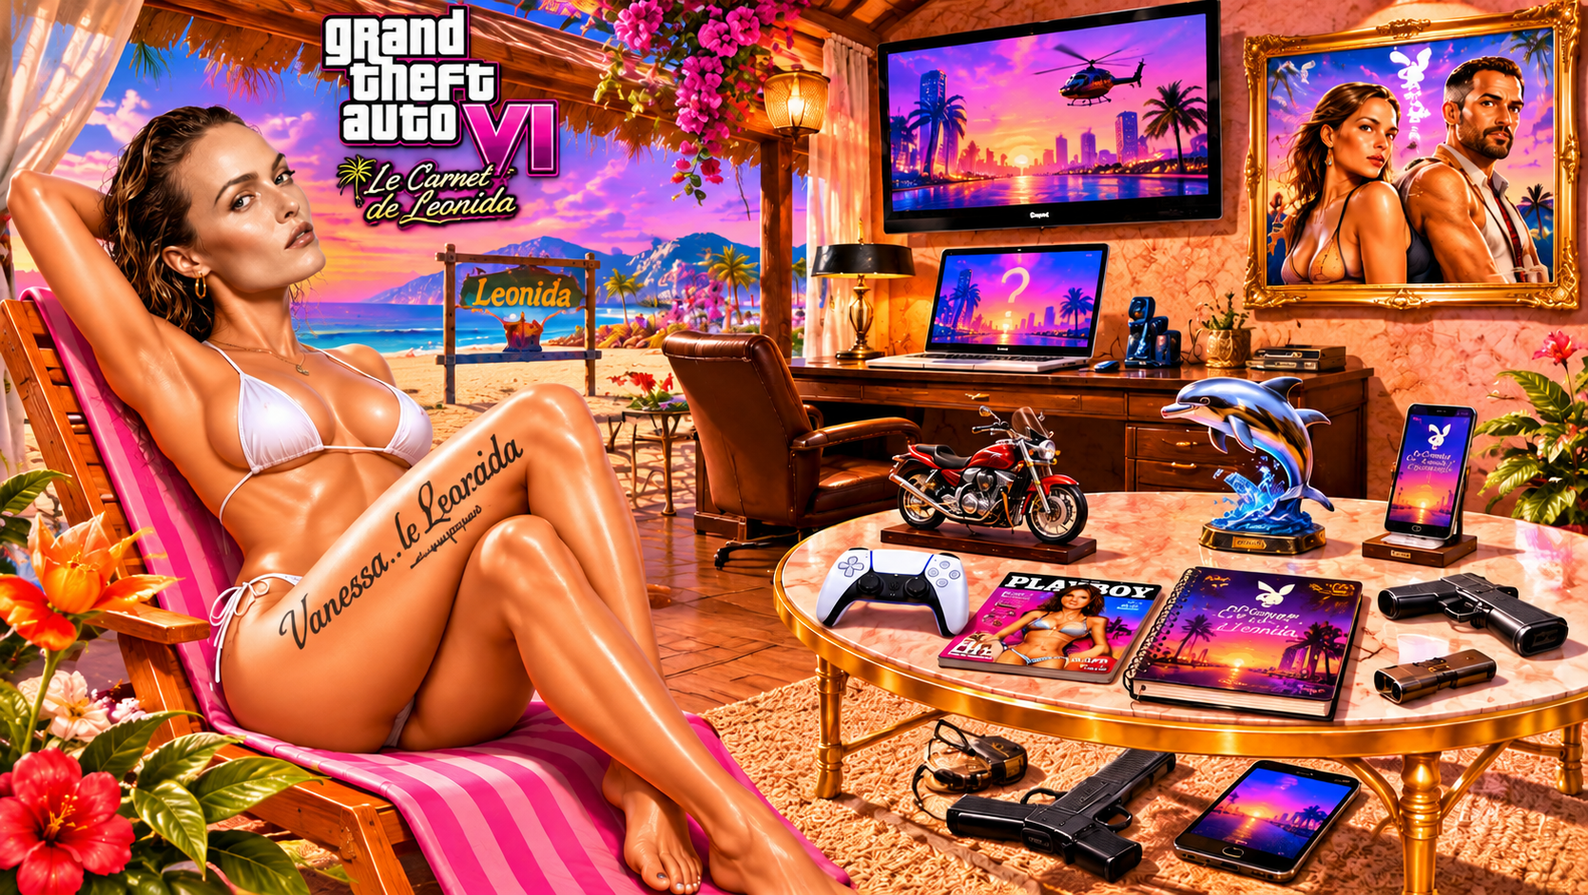
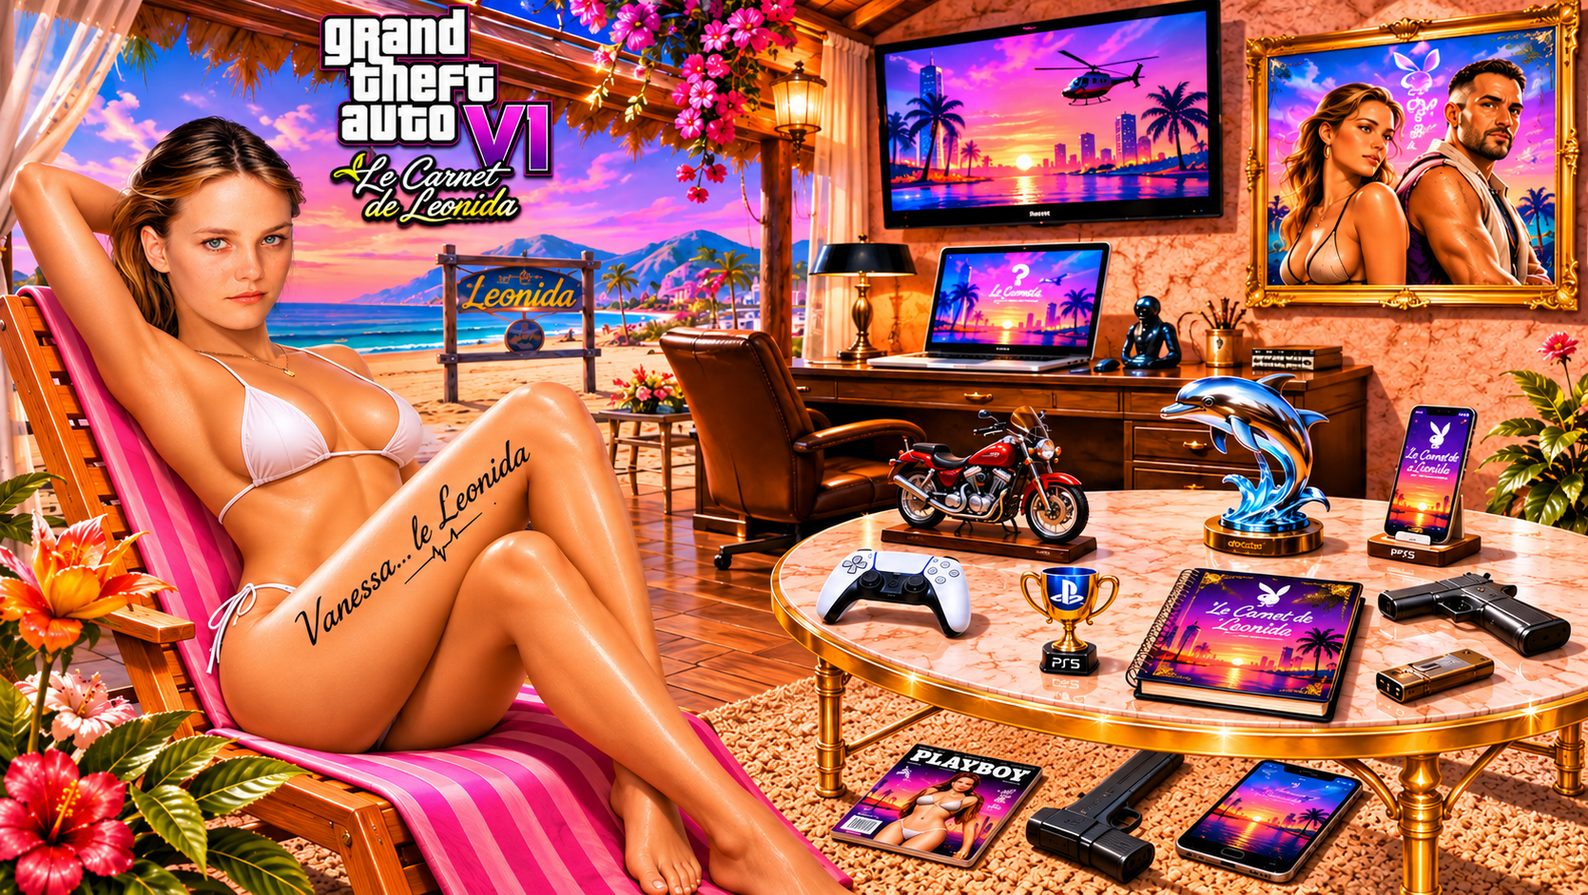
Add files via upload

diff --git a/trophees.html b/trophees.html
@@ -1,0 +1,12 @@
+<!doctype html><html lang="fr"><head><meta charset="utf-8"><meta name="viewport" content="width=device-width,initial-scale=1"><title>Trophées PS5 — Le Carnet de Leonida</title><style>
+:root{color-scheme:dark;--pink:#ff58b8;--cyan:#55e9f5;--bg:#140c28}*{box-sizing:border-box}body{margin:0;font-family:Arial,sans-serif;background:radial-gradient(circle at 80% 0%,#5b1d69,transparent 40%),linear-gradient(145deg,#160b2a,#23113e 60%,#0a1c30);color:#f8f5ff;min-height:100vh}header{padding:24px max(20px,calc((100vw - 1200px)/2));background:linear-gradient(90deg,#81297f,#b82d88,#167f9e);display:flex;align-items:center;justify-content:space-between;gap:16px;flex-wrap:wrap}header h1{margin:0;font-size:clamp(24px,4vw,38px)}a{color:var(--cyan)}.btn,button{border:1px solid #8b568f;border-radius:9px;background:#39244d;color:white;padding:10px 14px;cursor:pointer;font-size:14px}.btn{text-decoration:none}.btn:hover,button:hover{border-color:var(--cyan)}main{max-width:1200px;margin:auto;padding:24px 18px}.lead{color:#d4c8df}.bar{height:12px;border-radius:20px;background:#3c3055;overflow:hidden}.fill{height:100%;width:0;background:linear-gradient(90deg,var(--pink),var(--cyan))}.toolbar{display:flex;gap:10px;flex-wrap:wrap;margin:20px 0}input,select{padding:11px;border-radius:9px;border:1px solid #745a85;background:#22182f;color:white;font-size:15px}input[type=search]{flex:1;min-width:220px}.grid{display:grid;grid-template-columns:repeat(auto-fill,minmax(295px,1fr));gap:16px}.card{background:#211832e8;border:1px solid #654c7a;border-radius:16px;padding:18px;box-shadow:0 8px 22px #08040d66}.top{display:flex;align-items:center;gap:12px}.icon{width:62px;height:62px;object-fit:contain;border-radius:10px;background:#302344}.title{margin:0;font-size:19px}.rank{font-size:13px;color:#d8b4ed}.desc{line-height:1.45;color:#e1d8e9;min-height:60px}.actions{display:flex;gap:8px;flex-wrap:wrap;align-items:center}.check{display:flex;align-items:center;gap:6px;color:#92f2dc}.video{margin-top:14px}.video iframe{width:100%;aspect-ratio:16/9;border:0;border-radius:10px}.muted{color:#b8a6c4;font-size:13px}.edit{display:none;margin-top:12px;gap:8px}.edit.open{display:flex}.edit input{width:100%;min-width:0}.badge{padding:3px 8px;border-radius:10px;background:#442f56;color:#f8d1f2}.footer{margin:25px 0;color:#b7a8c8;font-size:13px}label{cursor:pointer}@media(max-width:500px){header{padding:20px}.grid{grid-template-columns:1fr}}.hero-img{display:block;width:100%;max-width:780px;max-height:620px;object-fit:contain;margin:0 auto 24px;border-radius:14px;box-shadow:0 8px 35px #07051088}.hero-wrap{background:linear-gradient(135deg,#291039,#11283a);padding:20px 12px;border-radius:16px;margin-bottom:22px}</style></head><body><header><h1>Trophées PS5 — Le Carnet de Leonida</h1><a class="btn" href="index.html">← Accueil</a></header><main><div class="hero-wrap"><img class="hero-img" src="images/trophees-ps5.png" alt="Vanessia dans la salle de sport, trophée PS5"></div><p class="lead">Guide illustré des 55 trophées : descriptions, recherche et vidéos explicatives ajoutées progressivement. Pour le suivi des trophées obtenus, utilise ta PS5.</p><div class="toolbar"><input id="search" type="search" placeholder="Rechercher un trophée…"><select id="filter"><option value="">Toutes les catégories</option></select><select id="status"><option value="">Toutes les vidéos</option><option value="video">Avec vidéo</option><option value="pending">Vidéo à venir</option></select></div><div class="grid" id="grid"></div><p class="footer">Guide réalisé à partir du document EveryTrophy fourni. Les vidéos seront ajoutées directement au fichier HTML lors des mises à jour. Aucun suivi de progression ni connexion au Worker.</p></main><script>
+const TROPHIES=[{"id": "un-gout-de-paradis", "name": "Un goût de paradis", "description": "Termine Partie de pêche, l'une des premières missions du chapitre 1. Trophée d'histoire impossible à rater ; 98,1 % l'ont.", "rank": "Bronze", "category": "Histoire", "image": "images/trophees/just-like-paradise.webp"}, {"id": "paradis-perdu", "name": "Paradis perdu", "description": "Termine le chapitre 1. Trophée d'histoire impossible à rater ; 26,8 % l'ont.", "rank": "Bronze", "category": "Histoire", "image": "images/trophees/paradise-lost.webp"}, {"id": "n-s-cul-et-argent-sale", "name": "N*****s, cul et argent sale", "description": "Termine le chapitre 2. Trophée d'histoire impossible à rater ; 10,1 % l'ont.", "rank": "Bronze", "category": "Histoire", "image": "images/trophees/t-s-ass-drug-money.webp"}, {"id": "vice-city-baby", "name": "Vice City, baby !", "description": "Termine le chapitre 3. Trophée d'histoire impossible à rater ; 0,3 % l'ont.", "rank": "Bronze", "category": "Histoire", "image": "images/trophees/vice-city-baby.webp"}, {"id": "le-top-du-top-ma", "name": "Le top du top, Ma", "description": "Termine le chapitre 4. Trophée d'histoire impossible à rater ; 0,1 % l'ont.", "rank": "Bronze", "category": "Histoire", "image": "images/trophees/top-of-the-world-ma.webp"}, {"id": "faut-que-tu-saches-quand-descendre", "name": "Faut que tu saches quand descendre", "description": "Termine la dernière mission de l'histoire. C'est l'un des deux trophées d'or ; 0,1 % l'ont.", "rank": "Or", "category": "Histoire", "image": "images/trophees/you-gotta-know-when-to-get-off.webp"}, {"id": "tu-me-fais-confiance", "name": "Tu me fais confiance ?", "description": "Termine Course matinale, une mission du chapitre 2. Trophée d'histoire impossible à rater ; 16,4 % l'ont.", "rank": "Bronze", "category": "Histoire", "image": "images/trophees/trust.webp"}, {"id": "faire-sauter-la-banque", "name": "Faire sauter la banque", "description": "Termine Le coup du cartel, une mission du chapitre 3. Trophée d'histoire impossible à rater ; 0,4 % l'ont.", "rank": "Bronze", "category": "Histoire", "image": "images/trophees/break-the-bank.webp"}, {"id": "la-vie-de-famille", "name": "La vie de famille", "description": "Termine Jeu d'enfant, une mission du chapitre 4. Trophée d'histoire impossible à rater ; 0,1 % l'ont.", "rank": "Bronze", "category": "Histoire", "image": "images/trophees/family-matters.webp"}, {"id": "la-chute-de-dwnply", "name": "La chute de DWNPLY", "description": "Termine Têtes d'affiche, une mission du chapitre 4. Trophée d'histoire impossible à rater ; 0,1 % l'ont.", "rank": "Bronze", "category": "Histoire", "image": "images/trophees/dwnfall.webp"}, {"id": "detournement", "name": "Détournement", "description": "Termine Trafic aérien, une mission du chapitre 4. Trophée d'histoire impossible à rater ; 0,1 % l'ont.", "rank": "Bronze", "category": "Histoire", "image": "images/trophees/hi-jacked.webp"}, {"id": "tempete-de-neige", "name": "Tempête de neige", "description": "Termine Opération Savage Glory, une mission du chapitre 5. Trophée d'histoire impossible à rater ; 0,1 % l'ont.", "rank": "Bronze", "category": "Histoire", "image": "images/trophees/snow-storm.webp"}, {"id": "la-route-vers-le-retablissement", "name": "La route vers le rétablissement", "description": "Termine les cinq missions d'Andy ; la dernière donne le trophée. Trophée de personnage secondaire ; 0,1 % l'ont.", "rank": "Bronze", "category": "", "image": "images/trophees/road-to-rehabilitation.webp"}, {"id": "cetait-pas-un-accident-de-bateau", "name": "C'était pas un accident de bateau", "description": "Récupère pour Kenton les trésors de ses 7 épaves. Trophée de personnage secondaire ; 0,2 % l'ont.", "rank": "Bronze", "category": "", "image": "images/trophees/this-was-no-boat-accident.webp"}, {"id": "cavalier-seul", "name": "Cavalier seul", "description": "Termine les cinq boulots de Billy ; le cinquième, Hometown Heroes, donne le trophée. Trophée de personnage secondaire ; 0,1 % l'ont.", "rank": "Bronze", "category": "", "image": "images/trophees/the-lone-rider.webp"}, {"id": "inconnus-et-detraques", "name": "Inconnus et détraqués", "description": "Termine 8 séries d'inconnus qui comptent pour le trophée. Trophée d'argent de personnages secondaires ; 0,1 % l'ont.", "rank": "Argent", "category": "", "image": "images/trophees/strangers-freaks.webp"}, {"id": "loffre-et-la-demande", "name": "L'offre et la demande", "description": "Livre à Randy les 16 sportives de sa liste. Trophée de personnage secondaire ; 0,1 % l'ont.", "rank": "Bronze", "category": "", "image": "images/trophees/supply-demand.webp"}, {"id": "spin-on-this", "name": "Spin On This !", "description": "Détruis les labos de synthétiques de Tyrone et termine sa dernière commande, Shut Down the Labs. Trophée de personnage secondaire ; 0,1 % l'ont.", "rank": "Bronze", "category": "", "image": "images/trophees/spin-on-this.webp"}, {"id": "go-elan", "name": "Go élan", "description": "Fais les missions de chasse de Bret et rapporte-lui les proies qu'il demande. Trophée de personnage secondaire ; 0,1 % l'ont.", "rank": "Bronze", "category": "", "image": "images/trophees/fair-game.webp"}, {"id": "casse-cou-jusquau-bout", "name": "Casse-cou jusqu'au bout", "description": "Réussis 250 des 397 cascades, dans n'importe quelle combinaison. Trophée d'argent du monde ouvert ; 0,1 % l'ont.", "rank": "Argent", "category": "", "image": "images/trophees/cunning-stunts.webp"}, {"id": "touche-a-tout", "name": "Touche-à-tout", "description": "Essaie une fois chacun des 9 types d'activité. Trophée du monde ouvert ; 0,1 % l'ont.", "rank": "Bronze", "category": "", "image": "images/trophees/master-of-none.webp"}, {"id": "le-flingueur", "name": "Le Flingueur", "description": "Décroche l'or aux 42 défis des 12 stands de tir. Trophée d'argent du monde ouvert ; 0,1 % l'ont.", "rank": "Argent", "category": "", "image": "images/trophees/the-shootist.webp"}, {"id": "top-fun", "name": "Top Fun", "description": "Gagne une course de drones Top Fun à chacun des 14 emplacements. Trophée du monde ouvert ; 0,1 % l'ont.", "rank": "Bronze", "category": "", "image": "images/trophees/top-fun.webp"}, {"id": "largent-pas-la-reconnaissance", "name": "L'argent, pas la reconnaissance", "description": "Gagne 20 courses différentes parmi les 40 disponibles. Trophée du monde ouvert ; 0,1 % l'ont.", "rank": "Bronze", "category": "", "image": "images/trophees/earn-cash-not-kudos.webp"}, {"id": "joli-coup-de-canne", "name": "Joli coup de canne", "description": "Bats Cal dans son défi de pêche. Trophée du monde ouvert ; 10,2 % l'ont.", "rank": "Bronze", "category": "", "image": "images/trophees/baited-my-tackle.webp"}, {"id": "as-du-manche", "name": "As du manche", "description": "Va au bout de n'importe lequel des 4 jeux vidéo. Trophée du monde ouvert ; 0,3 % l'ont.", "rank": "Bronze", "category": "", "image": "images/trophees/stick-fiddler.webp"}, {"id": "une-derniere-chose", "name": "Une dernière chose", "description": "Réussis 50 des 80 défis. Trophée du monde ouvert ; 0,1 % l'ont.", "rank": "Bronze", "category": "", "image": "images/trophees/one-last-thing.webp"}, {"id": "arrete-moi-si-tu-peux", "name": "Arrête-moi si tu peux", "description": "Vole à l'aéroport de Vice City un avion de ligne amarré à une passerelle d'embarquement et éloigne-toi en vol. Trophée secret ; 0,2 % l'ont.", "rank": "Bronze", "category": "", "image": "images/trophees/catch-me-if-you-can.webp"}, {"id": "arrete-ton-char", "name": "Arrête ton char", "description": "Vole un char Rhino à la base de Mile Zero Air Station et abats des ennemis depuis l'intérieur. Trophée secret ; 0,1 % l'ont.", "rank": "Bronze", "category": "", "image": "images/trophees/challenging-tank.webp"}, {"id": "au-debut", "name": "Au début…", "description": "Prends un cocktail à l'Ocean View Rooftop Bar, le toit-terrasse d'un hôtel avec vue sur Ocean Beach. Trophée secret ; 0,1 % l'ont.", "rank": "Bronze", "category": "", "image": "images/trophees/in-the-beginning.webp"}, {"id": "capital-mal-acquis", "name": "Capital mal acquis", "description": "Vole la Banshee bleue du showroom du sud de Vice City et sors avec en traversant la vitrine. Trophée secret ; 0,1 % l'ont.", "rank": "Bronze", "category": "", "image": "images/trophees/capital-offense.webp"}, {"id": "on-va-au-bowling", "name": "On va au bowling", "description": "Emporte les 3 objets de valeur du Kingpin Bowling, l'opération de gang de Port Gellhorn. Trophée secret ; 4,5 % l'ont.", "rank": "Bronze", "category": "", "image": "images/trophees/lets-go-bowling.webp"}, {"id": "record-personnel", "name": "Record personnel", "description": "Monte au maximum la force de Jason et celle de Lucia. Trophée secret ; 0,1 % l'ont.", "rank": "Bronze", "category": "", "image": "images/trophees/personal-best.webp"}, {"id": "les-actes-sont-plus-forts", "name": "Les actes sont plus forts", "description": "Fais 500 actions qui modifient ton profil criminel. Trophée secret ; 0,1 % l'ont.", "rank": "Bronze", "category": "", "image": "images/trophees/actions-speak-louder.webp"}, {"id": "pas-de-bol-jimagine", "name": "Pas de bol, j'imagine", "description": "Braque de nouveau avec Lucia le Payday Loans de Little Cuba, celui du prologue, et enfuis-toi à pied. Trophée secret ; 0,1 % l'ont.", "rank": "Bronze", "category": "", "image": "images/trophees/bad-luck-i-guess.webp"}, {"id": "la-verite-est-ailleurs", "name": "La vérité est ailleurs", "description": "Termine la rencontre avec l'OVNI sur la route au nord-ouest du Starlet Motel, dans le comté de Kelly. Trophée secret ; 2,0 % l'ont.", "rank": "Bronze", "category": "", "image": "images/trophees/the-truth-is-out-there.webp"}, {"id": "decatombe", "name": "Décatombe", "description": "Monte sur une moto et renverse des piétons à coups de pied en roulant. Trophée secret ; 0,1 % l'ont.", "rank": "Bronze", "category": "", "image": "images/trophees/ten-pin.webp"}, {"id": "pro-de-la-gachette", "name": "Pro de la gâchette", "description": "Abats 5 ennemis en une seule utilisation de la concentration en combat. Trophée de combat ; 0,1 % l'ont.", "rank": "Bronze", "category": "", "image": "images/trophees/gunslinger.webp"}, {"id": "faut-rester-positifs", "name": "Faut rester positifs", "description": "Médite aux lieux de méditation jusqu'à ce que le compteur atteigne 18. Trophée de collectibles ; 0,1 % l'ont.", "rank": "Bronze", "category": "", "image": "images/trophees/positive-mental-attitude.webp"}, {"id": "cartes-sur-table", "name": "Cartes sur table", "description": "Complète 3 séries de cartes, celles que tu veux. Trophée d'argent de collectibles ; 0,1 % l'ont.", "rank": "Argent", "category": "", "image": "images/trophees/dont-touch-my-deck.webp"}, {"id": "coup-de-wainkeur", "name": "Coup de WAiNKeur", "description": "Scanne 100 lieux avec l'application WAiNK du téléphone. Trophée d'argent de collectibles ; 0,1 % l'ont.", "rank": "Argent", "category": "", "image": "images/trophees/you-wainker.webp"}, {"id": "ca-roule", "name": "Ça roule", "description": "Scanne 100 véhicules différents avec l'application WAiNK. Trophée de collectibles ; 6,1 % l'ont.", "rank": "Bronze", "category": "", "image": "images/trophees/whip-it-good.webp"}, {"id": "letat-du-bonheur", "name": "L'État du Bonheur", "description": "Dissipe le brouillard sur toute la carte de la Leonida. Trophée d'exploration ; 0,1 % l'ont.", "rank": "Bronze", "category": "", "image": "images/trophees/the-goodtime-state.webp"}, {"id": "pas-de-petit-profit", "name": "Pas de petit profit", "description": "Revends aux receleurs 250 000 $ en billets marqués, au total. Trophée d'argent ; 0,1 % l'ont.", "rank": "Bronze", "category": "Vie et métiers", "image": "images/trophees/dime-on-the-dollar.webp"}, {"id": "faites-vous-plaisir", "name": "Faites-vous plaisir", "description": "Dépense 100 000 $ au total dans tous les types de commerces. Trophée d'argent ; 0,8 % l'ont.", "rank": "Bronze", "category": "Vie et métiers", "image": "images/trophees/treat-yo-self.webp"}, {"id": "petits-boxes", "name": "Petits boxes", "description": "Achète les 8 garages en vente avec l'application Vice City Real Estate. Trophée de propriétés ; 0,1 % l'ont.", "rank": "Bronze", "category": "Vie et métiers", "image": "images/trophees/little-boxes.webp"}, {"id": "de-service", "name": "De service", "description": "Apporte 10 véhicules volés au garage de Moses, repeins-les et enregistre-les dans Scooter Bros. Trophée de propriétés ; 0,1 % l'ont.", "rank": "Bronze", "category": "Vie et métiers", "image": "images/trophees/on-the-spot.webp"}, {"id": "des-etoiles-plein-les-yeux", "name": "Des étoiles plein les yeux", "description": "Avec ton partenaire à côté, prends 4 étoiles de recherche et sors de la zone d'alerte rouge. Trophée de braquages et de police ; 2,0 % l'ont.", "rank": "Bronze", "category": "", "image": "images/trophees/hot-together.webp"}, {"id": "shopping-therapeutique", "name": "Shopping thérapeutique", "description": "Braque 3 magasins d'affilée avec ton partenaire pendant que la police te recherche encore. Trophée de braquages et de police ; 0,1 % l'ont.", "rank": "Bronze", "category": "", "image": "images/trophees/retail-therapy.webp"}, {"id": "vol-furtif", "name": "Vol furtif", "description": "Braque une bijouterie en entrant par la porte de derrière sans être repéré. Trophée de braquages ; 0,2 % l'ont.", "rank": "Bronze", "category": "", "image": "images/trophees/sneakthief.webp"}, {"id": "plafond-de-retrait", "name": "Plafond de retrait", "description": "Braque 5 des 8 chambres fortes des banques et enfuis-toi. Trophée d'argent de braquages ; 0,1 % l'ont.", "rank": "Argent", "category": "", "image": "images/trophees/maximum-withdrawal.webp"}, {"id": "coup-classique-de-lattaque-eclair", "name": "Coup classique de l'attaque éclair", "description": "Braque un fourgon blindé et sors de la zone d'alerte rouge. Trophée de braquages ; 0,1 % l'ont.", "rank": "Bronze", "category": "", "image": "images/trophees/a-classic-blitz-play.webp"}, {"id": "lutte-contre-les-nuisibles", "name": "Lutte contre les nuisibles", "description": "Dévalise une opération illégale de chacun des 9 gangs. Trophée de braquages ; 0,1 % l'ont.", "rank": "Bronze", "category": "", "image": "images/trophees/pest-control.webp"}, {"id": "une-longue-route", "name": "Une longue route", "description": "Complète la liste du 100 %, qui apparaît dans le menu de progression à la fin de l'histoire. C'est le trophée le plus long de la liste ; 0,1 % l'ont.", "rank": "Or", "category": "", "image": "images/trophees/a-long-road.webp"}, {"id": "cest-le-prix-de-vice-city", "name": "C'est le prix de Vice City !", "description": "Obtiens les 54 autres trophées. C'est le platine ; 0,1 % l'ont.", "rank": "Platine", "category": "Autres", "image": "images/trophees/vice-got-a-price.webp"}];
+// Ajouter ici les vidéos vérifiées au fil du temps : identifiant du trophée → lien YouTube.
+const VIDEOS = {};
+const $=id=>document.getElementById(id);
+const esc=t=>String(t||'').replace(/[&<>"']/g,c=>({'&':'&amp;','<':'&lt;','>':'&gt;','"':'&quot;',"'":'&#39;'}[c]));
+function videoId(url){try{let u=new URL(url);if(u.hostname==='youtu.be')return u.pathname.slice(1);if(['www.youtube.com','youtube.com','m.youtube.com'].includes(u.hostname)){if(u.pathname==='/watch')return u.searchParams.get('v');if(u.pathname.startsWith('/shorts/')||u.pathname.startsWith('/embed/'))return u.pathname.split('/')[2]}}catch{}return null}
+function render(){let q=$('search').value.toLowerCase(),f=$('filter').value,st=$('status').value;let grid=$('grid');grid.innerHTML='';for(let t of TROPHIES){let v=VIDEOS[t.id]||'';if(q&&!(t.name+' '+t.description).toLowerCase().includes(q))continue;if(f&&t.category!==f)continue;if(st==='video'&&!v||st==='pending'&&v)continue;let card=document.createElement('article');card.className='card';let id=videoId(v);card.innerHTML=`<div class="top"><img class="icon" src="${esc(t.image)}" alt=""><div><h2 class="title">${esc(t.name)}</h2><span class="rank">${esc(t.rank)} · ${esc(t.category||'Autres')}</span></div></div><p class="desc">${esc(t.description)}</p><div class="actions"><span class="badge">${v?'📺 Vidéo disponible':'Vidéo à venir'}</span></div><div class="video">${v?(id?`<iframe loading="lazy" src="https://www.youtube-nocookie.com/embed/${encodeURIComponent(id)}" title="Vidéo ${esc(t.name)}" allowfullscreen></iframe>`:`<a href="${esc(v)}" target="_blank" rel="noopener noreferrer">Voir la vidéo ↗</a>`):''}</div>`;grid.append(card)}}
+for(let c of [...new Set(TROPHIES.map(x=>x.category||'Autres'))].sort()){let o=document.createElement('option');o.value=c==='Autres'?'':c;o.textContent=c;$('filter').append(o)}
+['search','filter','status'].forEach(id=>$(id).addEventListener('input',render));render();
+</script></body></html>

diff --git a/index.html b/index.html
@@ -17,6 +17,7 @@
   .zone:focus-visible{outline:2px solid #fff2b5;outline-offset:1px}
   .tv,.portrait{border-radius:3%}
   .laptop,.tablet,.magazine,.gun,.swimsuit,.weight{border-radius:16%}
+   .trophy{border-radius:30%}
   .chair{border-radius:35%}
   .notebook{border-radius:12%;z-index:2}
   @media(max-aspect-ratio:1648/928){.scene{width:100vw}}
@@ -40,7 +41,7 @@
 </head>
 <body>
   <main class="scene" aria-label="Le Carnet de Leonida : explorez les objets du décor pour naviguer">
-    <img class="decor" src="accueil-leonida.png" alt="Mortitia sur un transat face à la plage de Leonida, entourée d'objets à découvrir" draggable="false">
+    <img class="decor" src="accueil-leonida.png" alt="Vanessia sur un transat face à la plage de Leonida, entourée d’objets à découvrir" draggable="false">
       <a class="zone map" href="https://www.gtabase.com/fr/gta-6/carte/" target="_blank" rel="noopener noreferrer" style="--x:27.4%;--y:27.0%;--w:10.2%;--h:17.0%;" aria-label="Carte de Leonida (GTA Base)" title="Carte de Leonida"></a>
       <a class="zone tv" href="missions.html" style="--x:55.3%;--y:0.8%;--w:21.3%;--h:25.5%;" aria-label="Missions" title="Missions"></a>
       <a class="zone portrait" href="personnages.html" style="--x:78.7%;--y:0.5%;--w:20.3%;--h:35.0%;" aria-label="Personnages" title="Personnages"></a>
@@ -49,12 +50,13 @@
       <a class="zone moto" href="objets-vehicules.html" style="--x:55.8%;--y:45.6%;--w:12.2%;--h:15.4%;" aria-label="Véhicules" title="Véhicules"></a>
       <a class="zone dauphin" href="animaux.html" style="--x:72.3%;--y:40.9%;--w:11.1%;--h:21.2%;" aria-label="Animaux" title="Animaux"></a>
       <a class="zone phone" href="objets.html" style="--x:86.1%;--y:44.8%;--w:7.0%;--h:17.0%;" aria-label="Objets" title="Objets"></a>
-      <a class="zone controller" href="easter-eggs.html" style="--x:51.5%;--y:60.2%;--w:9.5%;--h:11.5%;z-index:3;" aria-label="Easter Eggs — Secrets de GTA VI" title="Easter Eggs — Secrets de GTA VI"></a>
-      <a class="zone magazine" href="salon-prive.html" style="--x:61.4%;--y:63.0%;--w:12.4%;--h:13.5%;" aria-label="Salon privé" title="Salon privé"></a>
-      <a class="zone notebook" href="carnet.html" style="--x:70.4%;--y:62.2%;--w:14.0%;--h:18.1%;" aria-label="Mon carnet de Leonida" title="Mon carnet de Leonida"></a>
-      <a class="zone gun" href="objets-armes.html" style="--x:86.1%;--y:63.9%;--w:11.5%;--h:7.0%;" aria-label="Armes" title="Armes"></a>
-      <a class="zone swimsuit" href="objets-vetements.html" style="--x:56.5%;--y:82.1%;--w:20.0%;--h:15.7%;" aria-label="Vêtements" title="Vêtements"></a>
-      <a class="zone weight" href="activites.html" style="--x:86.5%;--y:71.2%;--w:8.5%;--h:7.0%;" aria-label="Activités" title="Activités"></a>
+      <a class="zone controller" href="easter-eggs.html" style="--x:51.2%;--y:59.8%;--w:10.2%;--h:11.5%;z-index:3;" aria-label="Easter Eggs — Secrets de GTA VI" title="Easter Eggs — Secrets de GTA VI"></a>
+      <a class="zone magazine" href="salon-prive.html" style="--x:52.7%;--y:81.4%;--w:13.0%;--h:15.5%;z-index:4;" aria-label="Salon privé" title="Salon privé"></a>
+      <a class="zone trophy" href="trophees.html" style="--x:64.0%;--y:62.0%;--w:7.2%;--h:13.6%;z-index:6;" aria-label="Guide des trophées PS5" title="Trophées PS5"></a>
+      <a class="zone notebook" href="carnet.html" style="--x:70.9%;--y:62.7%;--w:14.3%;--h:16.0%;" aria-label="Mon carnet de Leonida" title="Mon carnet de Leonida"></a>
+      <a class="zone gun" href="objets-armes.html" style="--x:64.7%;--y:82.5%;--w:10.8%;--h:15.5%;z-index:5;" aria-label="Armes" title="Armes"></a>
+      <a class="zone swimsuit" href="objets-vetements.html" style="--x:13.3%;--y:39.5%;--w:15.8%;--h:32.0%;" aria-label="Vêtements" title="Vêtements"></a>
+      <a class="zone weight" href="activites.html" style="--x:86.2%;--y:71.3%;--w:8.7%;--h:7.7%;" aria-label="Activités" title="Activités"></a>
       <a class="zone binoculars" href="tips.html" style="--x:69.3%;--y:37.2%;--w:6.8%;--h:7.5%;" aria-label="Tips & Tricks — Astuces et secrets" title="Tips & Tricks — Astuces et secrets"></a>
       <a class="zone tablet" href="actualites.html" style="--x:73.8%;--y:84.0%;--w:13.8%;--h:14.5%;" aria-label="Actualités" title="Actualités"></a>
   </main>
